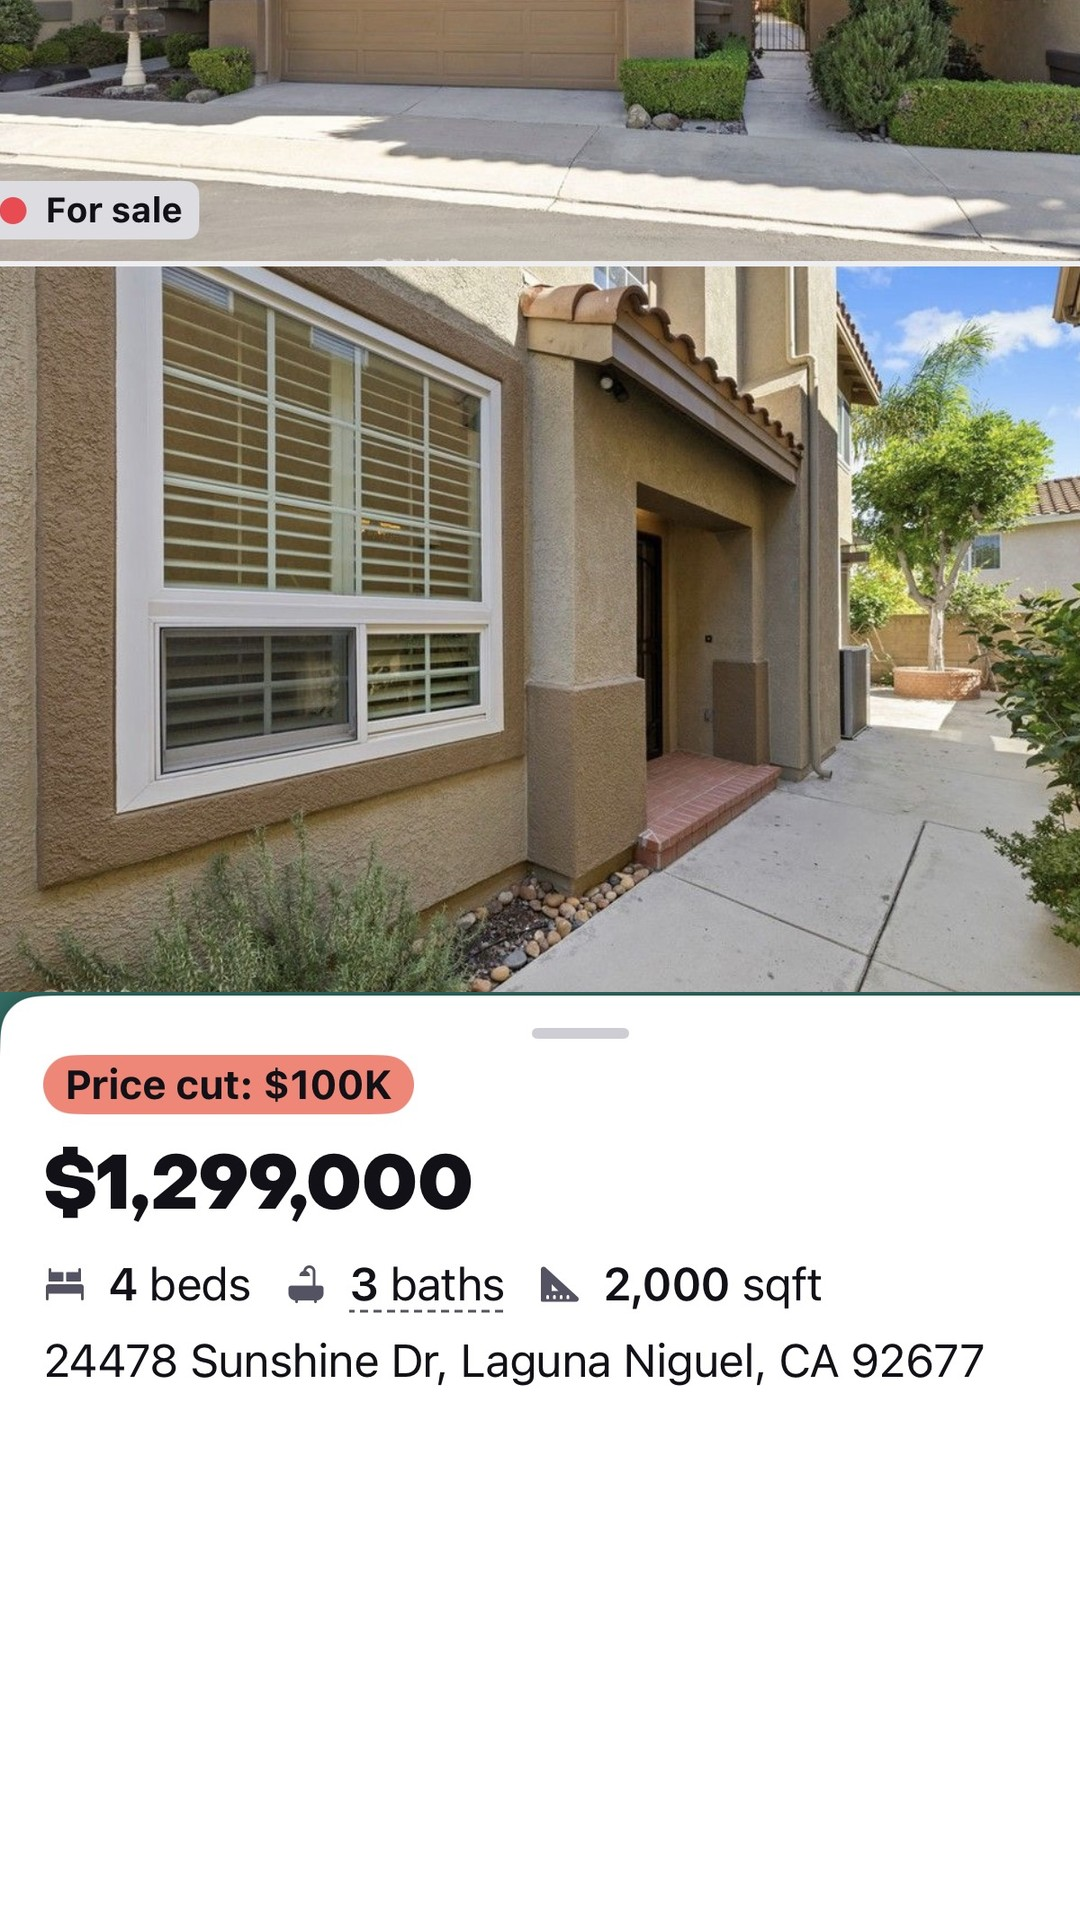
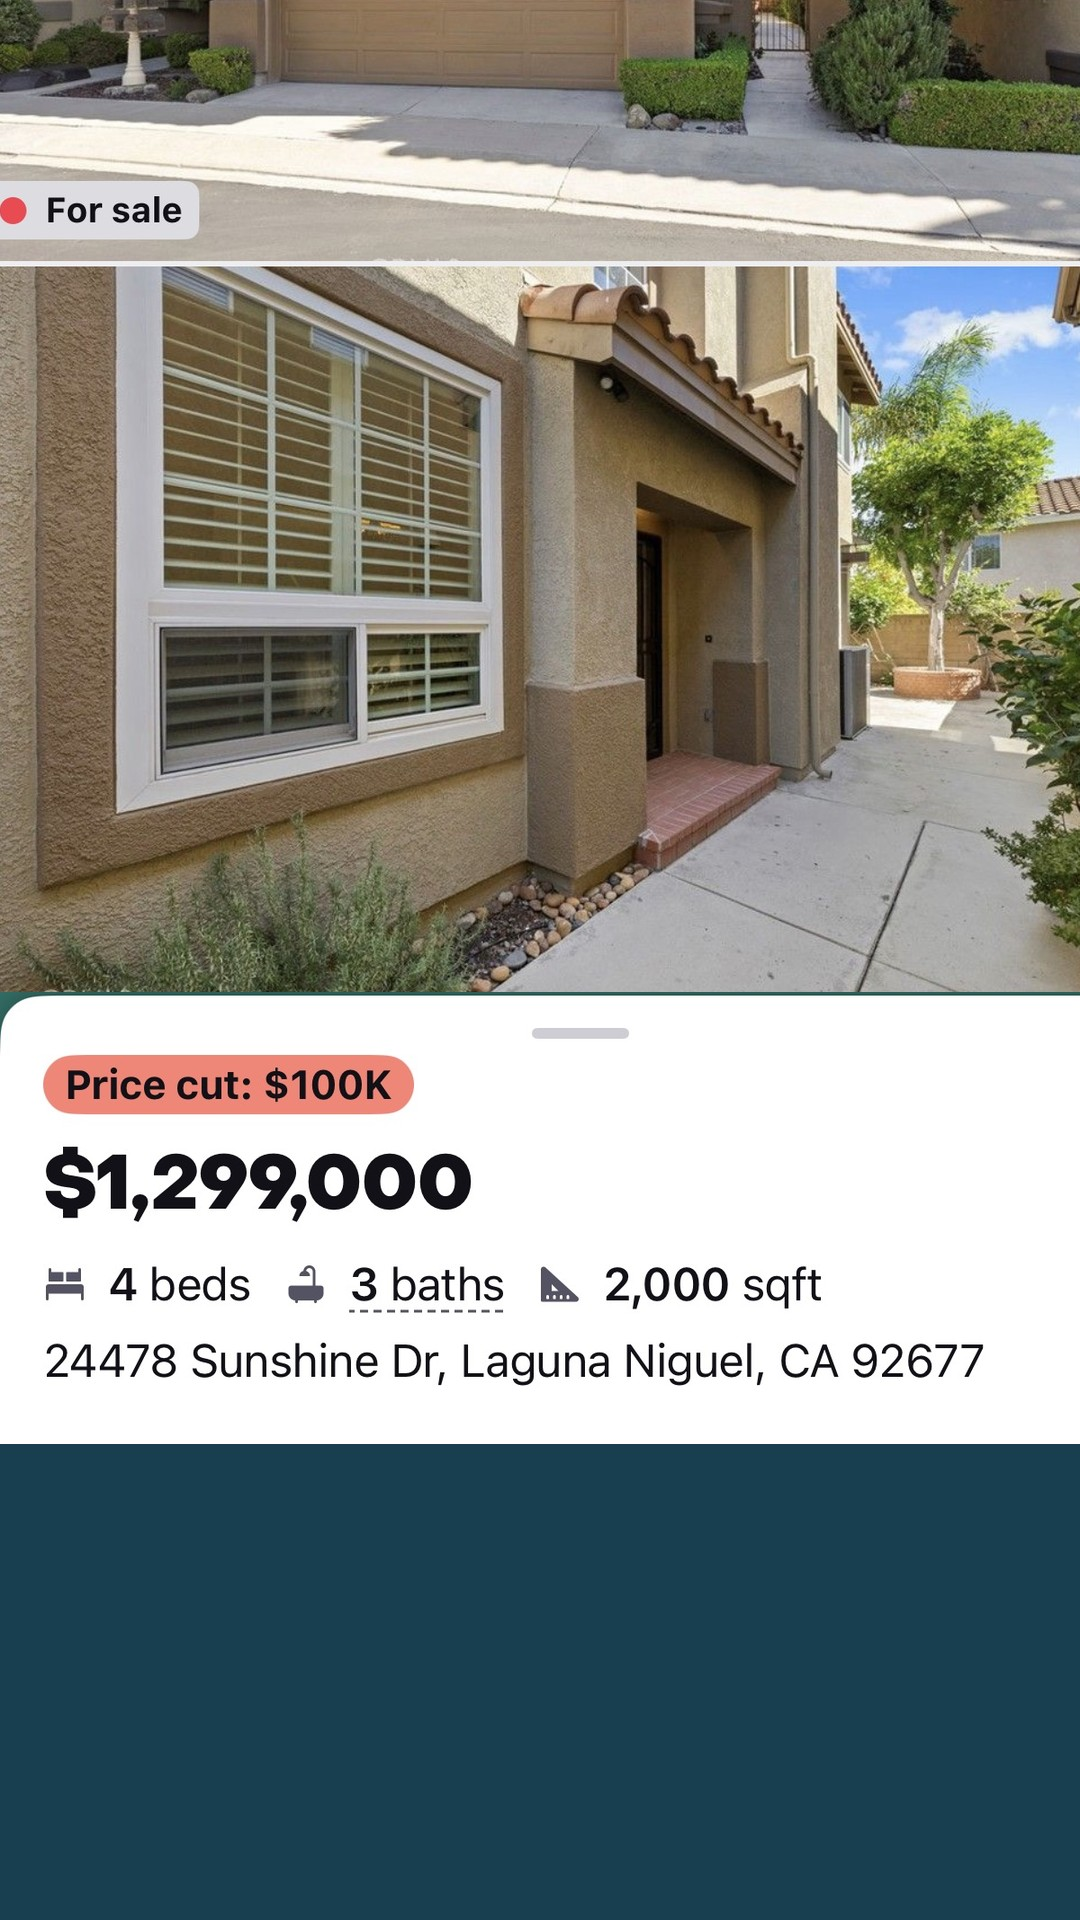
Price cuts reel: bolder hook line, navy under the listing cards
Claude-Session: https://claude.ai/code/session_017wiG7cP2vjPrb1Rep8f51e

Changed region(s): [[0.0, 0.75, 1.0, 1.0]]

diff --git a/graphics/price-cuts/comp.html b/graphics/price-cuts/comp.html
@@ -19,13 +19,13 @@
   .me img { top: 280px; left: -75px; width: 1230px; height: 1640px; transform-origin: 50% 50%; }
   .scrim { position: absolute; inset: 0; background:
       linear-gradient(180deg, rgba(23,63,79,1) 0px, rgba(23,63,79,1) 290px, rgba(23,63,79,.75) 430px, rgba(23,63,79,0) 660px),
-      linear-gradient(0deg, rgba(23,63,79,.92) 0%, rgba(23,63,79,.65) 22%, rgba(23,63,79,0) 38%); }
+      linear-gradient(0deg, rgba(23,63,79,.97) 0%, rgba(23,63,79,.90) 24%, rgba(23,63,79,.55) 36%, rgba(23,63,79,0) 48%); }
 
   .h { position: absolute; left: 64px; right: 140px; top: 290px; font-family: "Sora", sans-serif; font-weight: 700;
        font-size: 88px; line-height: 1.05; letter-spacing: -0.02em; color: var(--sand); }
   .h .terra { color: var(--terra); }
-  .cont { position: absolute; left: 64px; width: 800px; bottom: 480px; font-family: "Manrope", sans-serif; font-weight: 500;
-          font-size: 44px; line-height: 1.35; color: var(--sand); }
+  .cont { position: absolute; left: 64px; width: 860px; bottom: 480px; font-family: "Manrope", sans-serif; font-weight: 700;
+          font-size: 58px; line-height: 1.25; letter-spacing: -0.01em; color: var(--sand); }
   .cont .arrow { color: var(--terra); }
   .rise { will-change: transform, opacity; }
 </style>

diff --git a/graphics/price-cuts/make-cuts.py b/graphics/price-cuts/make-cuts.py
@@ -25,10 +25,11 @@ for i, n in enumerate(order, 1):
     sw = round(im.width * S)
     top_part = top_part.resize((sw, round(top_part.height * S)), Image.LANCZOS)
     price = price.resize((sw, round(price.height * S)), Image.LANCZOS)
-    frame = Image.new("RGB", (W, 1920), "white")
+    frame = Image.new("RGB", (W, 1920), (23, 63, 79))                # navy below the price block, not a white void
     x = (W - sw) // 2
     frame.paste(top_part, (x, 0))                                  # photos centred (crop both sides)
     frame.paste(price, (0, top_part.height))                       # price block keeps its left edge
     bottom = top_part.height + price.height
+    frame.paste((255, 255, 255), (0, bottom, W, bottom + 24))          # a little page under the address, then navy
     frame.save(f"{out}/cut{i}.jpg", quality=90)
     print(i, n, "p1_end", p1_end, "green", g0, g1, "hero", hero_top, hero_bot, "-> price block ends at", bottom)

diff --git a/docs/log/2026-10-29-price-cuts.md b/docs/log/2026-10-29-price-cuts.md
@@ -57,3 +57,6 @@ The "PNG" screenshots were JPEGs inside; PIL does not care. He had already cropp
   from y=265 so the block ends at ~1420; the map row and the "Est. $/mo" bar are cut out, and the bottom of
   the first photo peeks in under the chrome so it still reads as the page. Probe with the chrome zones
   drawn over the stills (red bands) before rendering.
+- 2026-10-30: "the bottom font looks a little too faint to read" on frame 1 → Manrope 700 at 58 px (was
+  500 at 44) and the bottom scrim goes almost solid navy in the last quarter. "So much white space below"
+  the listings → `make-cuts.py` fills under the price block with navy (24 px of page, then navy).
